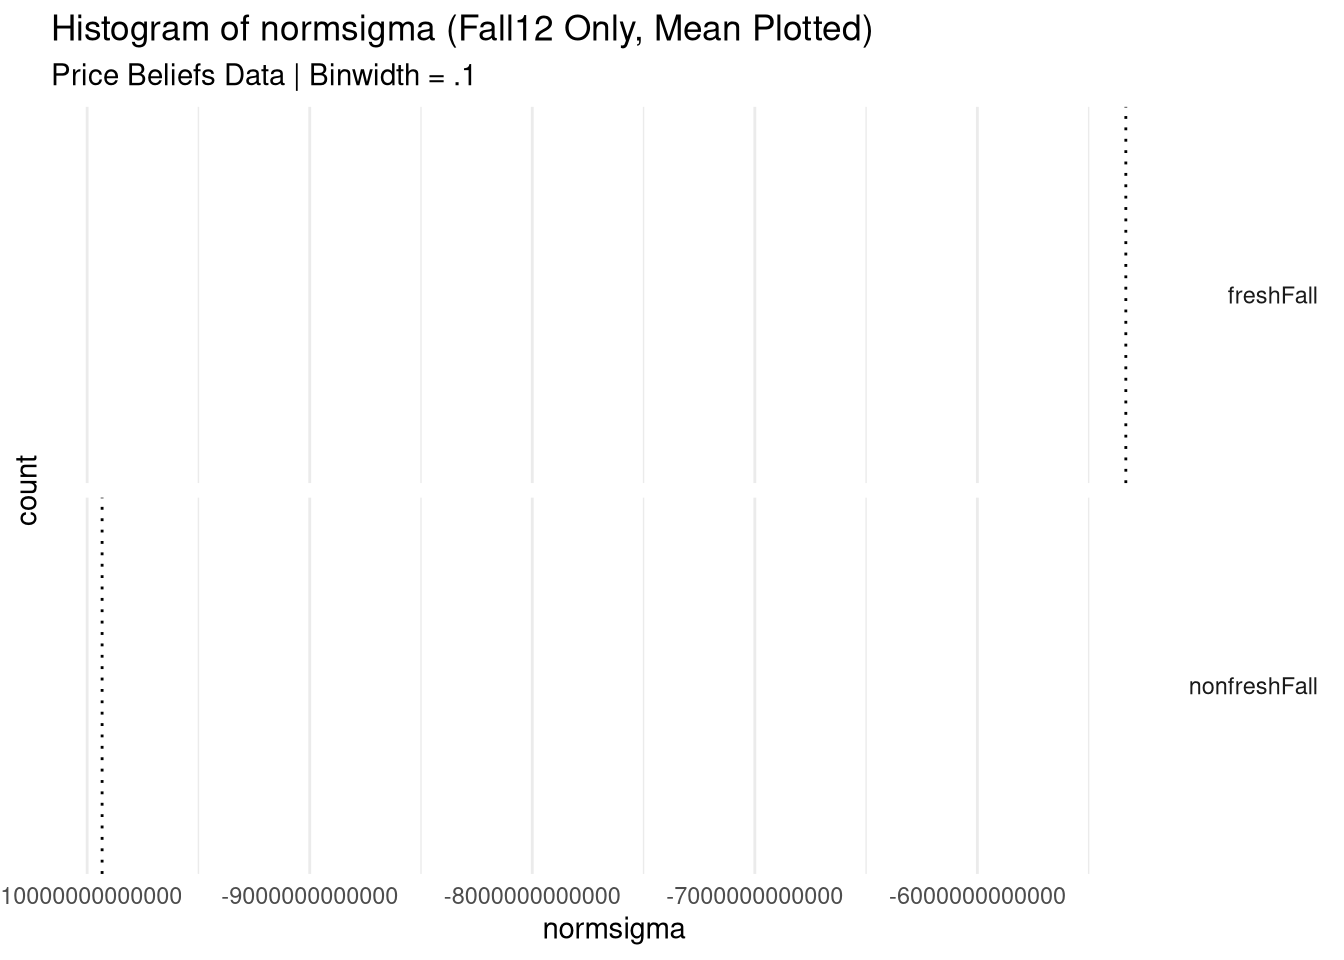
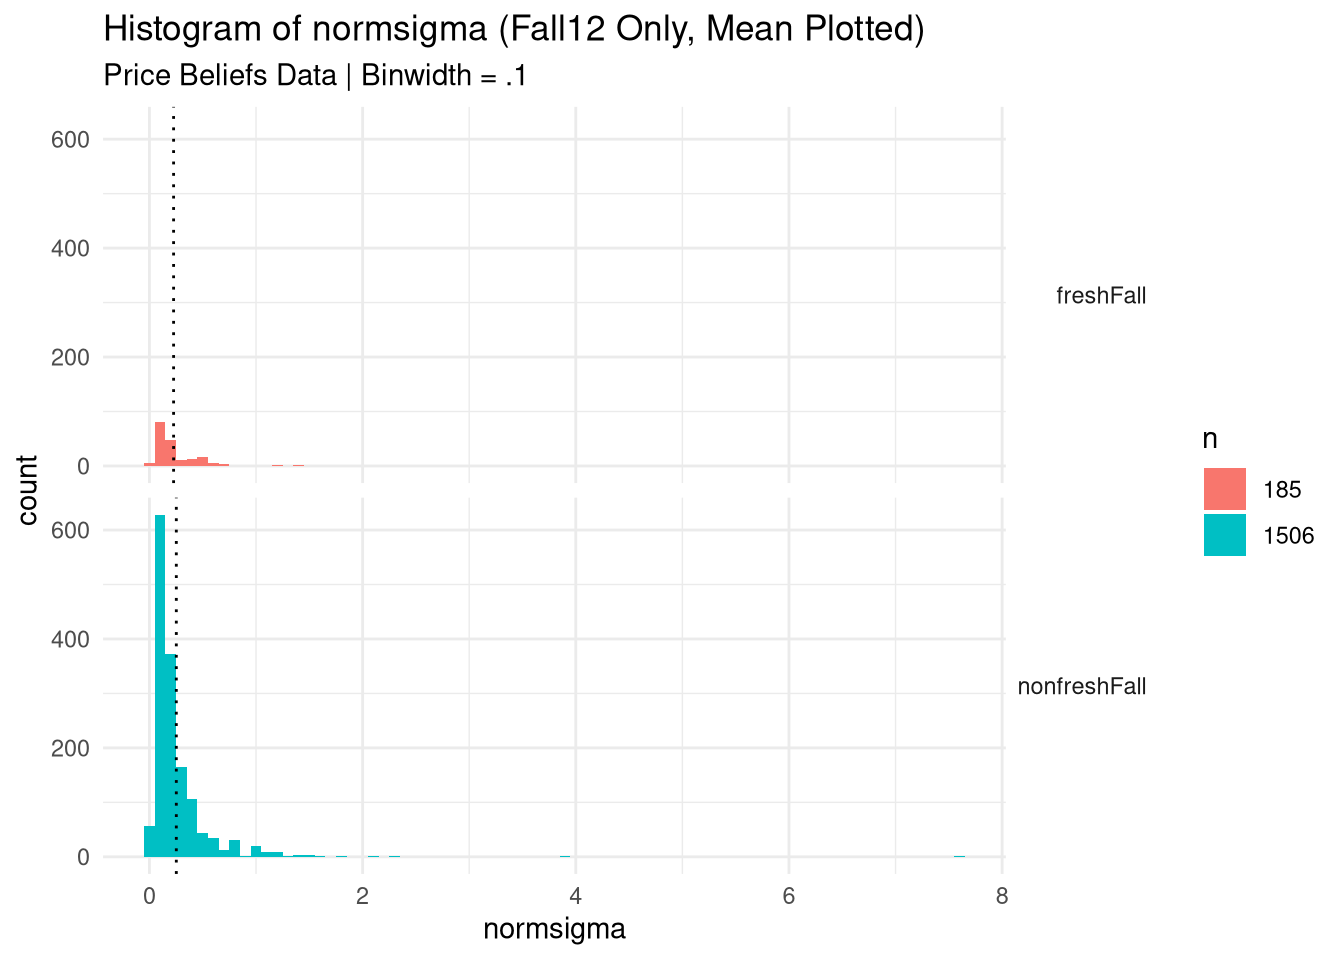
Build site.

diff --git a/docs/summaryStats.html b/docs/summaryStats.html
@@ -413,7 +413,7 @@ div.tocify {
 <div class="tab-content">
 <div id="summary" class="tab-pane fade in active">
 <p>
-<strong>Last updated:</strong> 2020-05-11
+<strong>Last updated:</strong> 2020-05-12
 </p>
 <p>
 <strong>Checks:</strong> <span class="glyphicon glyphicon-ok text-success" aria-hidden="true"></span> 7 <span class="glyphicon glyphicon-exclamation-sign text-danger" aria-hidden="true"></span> 0
@@ -423,7 +423,7 @@ div.tocify {
 </p>
 <p>
 This reproducible <a href="http://rmarkdown.rstudio.com">R Markdown</a> analysis was created with <a
-  href="https://github.com/jdblischak/workflowr">workflowr</a> (version 1.6.1). The <em>Checks</em> tab describes the reproducibility checks that were applied when the results were created. The <em>Past versions</em> tab lists the development history.
+  href="https://github.com/jdblischak/workflowr">workflowr</a> (version 1.6.2). The <em>Checks</em> tab describes the reproducibility checks that were applied when the results were created. The <em>Past versions</em> tab lists the development history.
 </p>
 <hr>
 </div>
@@ -504,16 +504,16 @@ This reproducible <a href="http://rmarkdown.rstudio.com">R Markdown</a> analysis
 <div class="panel panel-default">
 <div class="panel-heading">
 <p class="panel-title">
-<a data-toggle="collapse" data-parent="#workflowr-checks" href="#strongRepositoryversionstrongahrefhttpsgithubcomshugamoecleanittree78e38f6e37d19820ae5b794d87fdc4cb1f8891b5targetblank78e38f6a"> <span class="glyphicon glyphicon-ok text-success" aria-hidden="true"></span> <strong>Repository version:</strong> <a href="https://github.com/shugamoe/cleanit/tree/78e38f6e37d19820ae5b794d87fdc4cb1f8891b5" target="_blank">78e38f6</a> </a>
+<a data-toggle="collapse" data-parent="#workflowr-checks" href="#strongRepositoryversionstrongahrefhttpsgithubcomshugamoecleanittreea72abb6a3601e69cc192f72c0c0e66f109461f8dtargetblanka72abb6a"> <span class="glyphicon glyphicon-ok text-success" aria-hidden="true"></span> <strong>Repository version:</strong> <a href="https://github.com/shugamoe/cleanit/tree/a72abb6a3601e69cc192f72c0c0e66f109461f8d" target="_blank">a72abb6</a> </a>
 </p>
 </div>
[2 lines of base64/hex data omitted]
 <div class="panel-body">
 <p>
 Great! You are using Git for version control. Tracking code development and connecting the code version to the results is critical for reproducibility.
 </p>
 <p>
-The results in this page were generated with repository version <a href="https://github.com/shugamoe/cleanit/tree/78e38f6e37d19820ae5b794d87fdc4cb1f8891b5" target="_blank">78e38f6</a>. See the <em>Past versions</em> tab to see a history of the changes made to the R Markdown and HTML files.
+The results in this page were generated with repository version <a href="https://github.com/shugamoe/cleanit/tree/a72abb6a3601e69cc192f72c0c0e66f109461f8d" target="_blank">a72abb6</a>. See the <em>Past versions</em> tab to see a history of the changes made to the R Markdown and HTML files.
 </p>
 <p>
 Note that you need to be careful to ensure that all relevant files for the analysis have been committed to Git prior to generating the results (you can use <code>wflow_publish</code> or <code>wflow_git_commit</code>). workflowr only checks the R Markdown file, but you know if there are other scripts or data files that it depends on. Below is the status of the Git repository when the results were generated:
@@ -530,6 +530,7 @@ Untracked files:
     Untracked:  .drake/
     Untracked:  data/cleansample.csv
     Untracked:  data/pricebeliefs.csv
+    Untracked:  packrat/bundles/
     Untracked:  packrat/src/
 
 </code></pre>
@@ -569,6 +570,40 @@ Message
 </tr>
 </thead>
 <tbody>
+<tr>
+<td>
+Rmd
+</td>
+<td>
+<a href="https://github.com/shugamoe/cleanit/blob/a72abb6a3601e69cc192f72c0c0e66f109461f8d/analysis/summaryStats.Rmd" target="_blank">a72abb6</a>
+</td>
+<td>
+Julian McClellan
+</td>
+<td>
+2020-05-12
+</td>
+<td>
+Filter non-sensical survey probabilities to make mu/sigma graphs readable. New workflowr version installed.
+</td>
+</tr>
+<tr>
+<td>
+html
+</td>
+<td>
+<a href="https://rawcdn.githack.com/shugamoe/cleanit/a46ffe377cfceefd247357612cc9d233a5c6b1a5/docs/summaryStats.html" target="_blank">a46ffe3</a>
+</td>
+<td>
+Julian McClellan
+</td>
+<td>
+2020-05-11
+</td>
+<td>
+Build site.
+</td>
+</tr>
 <tr>
 <td>
 Rmd
@@ -1240,6 +1275,7 @@ wflow_publish(knitr_in(“analysis/summaryStats.Rmd”), view = T, verbose
 <ul>
 <li><code>mu</code>: 388 observations with <code>NA</code>, <code>NaN</code>, or <code>Inf</code> responses in the final data.</li>
 <li><code>sigma</code>: 317 observations with <code>NA</code>, <code>NaN</code>, or <code>Inf</code> responses in the final data.</li>
+<li><code>mu</code> and <code>sigma</code>: 577 observations have non-sensical probability responses. (E.g. <code>newlb + newub &gt;= 100</code> )</li>
 <li>Normalized <code>normmu</code> also available. (Utilizes <code>newexpratio</code> instead of <code>newexp</code>.)</li>
 </ul></li>
 <li>Removed responses from those with more than 10 semesters of college (267 in raw data.)
@@ -1274,6 +1310,17 @@ Date
 </tr>
 </thead>
 <tbody>
+<tr>
+<td>
+<a href="https://github.com/shugamoe/cleanit/blob/a46ffe377cfceefd247357612cc9d233a5c6b1a5/docs/figure/summaryStats.Rmd/mu_sigma_dists_better-1.png" target="_blank">a46ffe3</a>
+</td>
+<td>
+Julian McClellan
+</td>
+<td>
+2020-05-11
+</td>
+</tr>
 <tr>
 <td>
 <a href="https://github.com/shugamoe/cleanit/blob/ed2ef9796f47e7b1c6920a06807277affbb23271/docs/figure/summaryStats.Rmd/mu_sigma_dists_better-1.png" target="_blank">ed2ef97</a>
@@ -1325,6 +1372,17 @@ Date
 <tbody>
 <tr>
 <td>
+<a href="https://github.com/shugamoe/cleanit/blob/a46ffe377cfceefd247357612cc9d233a5c6b1a5/docs/figure/summaryStats.Rmd/mu_sigma_dists_better-2.png" target="_blank">a46ffe3</a>
+</td>
+<td>
+Julian McClellan
+</td>
+<td>
+2020-05-11
+</td>
+</tr>
+<tr>
+<td>
 <a href="https://github.com/shugamoe/cleanit/blob/ed2ef9796f47e7b1c6920a06807277affbb23271/docs/figure/summaryStats.Rmd/mu_sigma_dists_better-2.png" target="_blank">ed2ef97</a>
 </td>
 <td>
@@ -1372,6 +1430,17 @@ Date
 </tr>
 </thead>
 <tbody>
+<tr>
+<td>
+<a href="https://github.com/shugamoe/cleanit/blob/a46ffe377cfceefd247357612cc9d233a5c6b1a5/docs/figure/summaryStats.Rmd/mu_sigma_dists_better-3.png" target="_blank">a46ffe3</a>
+</td>
+<td>
+Julian McClellan
+</td>
+<td>
+2020-05-11
+</td>
+</tr>
 <tr>
 <td>
 <a href="https://github.com/shugamoe/cleanit/blob/afe8645c9c01a392a8ee23024bda3fbc9aa65a4c/docs/figure/summaryStats.Rmd/mu_sigma_dists_better-3.png" target="_blank">afe8645</a>
@@ -1434,6 +1503,17 @@ Date
 <tbody>
 <tr>
 <td>
+<a href="https://github.com/shugamoe/cleanit/blob/a46ffe377cfceefd247357612cc9d233a5c6b1a5/docs/figure/summaryStats.Rmd/mu_sigma_dists_better-4.png" target="_blank">a46ffe3</a>
+</td>
+<td>
+Julian McClellan
+</td>
+<td>
+2020-05-11
+</td>
+</tr>
+<tr>
+<td>
 <a href="https://github.com/shugamoe/cleanit/blob/afe8645c9c01a392a8ee23024bda3fbc9aa65a4c/docs/figure/summaryStats.Rmd/mu_sigma_dists_better-4.png" target="_blank">afe8645</a>
 </td>
 <td>
@@ -1492,6 +1572,17 @@ Date
 </tr>
 </thead>
 <tbody>
+<tr>
+<td>
+<a href="https://github.com/shugamoe/cleanit/blob/a46ffe377cfceefd247357612cc9d233a5c6b1a5/docs/figure/summaryStats.Rmd/mu_sigma_dists_better-5.png" target="_blank">a46ffe3</a>
+</td>
+<td>
+Julian McClellan
+</td>
+<td>
+2020-05-11
+</td>
+</tr>
 <tr>
 <td>
 <a href="https://github.com/shugamoe/cleanit/blob/afe8645c9c01a392a8ee23024bda3fbc9aa65a4c/docs/figure/summaryStats.Rmd/mu_sigma_dists_better-5.png" target="_blank">afe8645</a>
@@ -1554,6 +1645,17 @@ Date
 <tbody>
 <tr>
 <td>
+<a href="https://github.com/shugamoe/cleanit/blob/a46ffe377cfceefd247357612cc9d233a5c6b1a5/docs/figure/summaryStats.Rmd/mu_sigma_dists_better-6.png" target="_blank">a46ffe3</a>
+</td>
+<td>
+Julian McClellan
+</td>
+<td>
+2020-05-11
+</td>
+</tr>
+<tr>
+<td>
 <a href="https://github.com/shugamoe/cleanit/blob/afe8645c9c01a392a8ee23024bda3fbc9aa65a4c/docs/figure/summaryStats.Rmd/mu_sigma_dists_better-6.png" target="_blank">afe8645</a>
 </td>
 <td>
@@ -1614,6 +1716,17 @@ Date
 <tbody>
 <tr>
 <td>
+<a href="https://github.com/shugamoe/cleanit/blob/a46ffe377cfceefd247357612cc9d233a5c6b1a5/docs/figure/summaryStats.Rmd/mu_sigma_dists_better-7.png" target="_blank">a46ffe3</a>
+</td>
+<td>
+Julian McClellan
+</td>
+<td>
+2020-05-11
+</td>
+</tr>
+<tr>
+<td>
 <a href="https://github.com/shugamoe/cleanit/blob/afe8645c9c01a392a8ee23024bda3fbc9aa65a4c/docs/figure/summaryStats.Rmd/mu_sigma_dists_better-7.png" target="_blank">afe8645</a>
 </td>
 <td>
@@ -1672,6 +1785,17 @@ Date
 </tr>
 </thead>
 <tbody>
+<tr>
+<td>
+<a href="https://github.com/shugamoe/cleanit/blob/a46ffe377cfceefd247357612cc9d233a5c6b1a5/docs/figure/summaryStats.Rmd/mu_sigma_dists_better-8.png" target="_blank">a46ffe3</a>
+</td>
+<td>
+Julian McClellan
+</td>
+<td>
+2020-05-11
+</td>
+</tr>
 <tr>
 <td>
 <a href="https://github.com/shugamoe/cleanit/blob/afe8645c9c01a392a8ee23024bda3fbc9aa65a4c/docs/figure/summaryStats.Rmd/mu_sigma_dists_better-8.png" target="_blank">afe8645</a>
@@ -3070,7 +3194,7 @@ attached base packages:
 
 other attached packages:
 [1] doBy_4.6.5        ggplot2_3.3.0     magrittr_1.5      dplyr_0.8.5      
-[5] purrr_0.3.4       workflowr_1.6.1   drake_7.12.0      lubridate_1.7.8  
+[5] purrr_0.3.4       workflowr_1.6.2   drake_7.12.0      lubridate_1.7.8  
 [9] data.table_1.12.8
 
 loaded via a namespace (and not attached):
